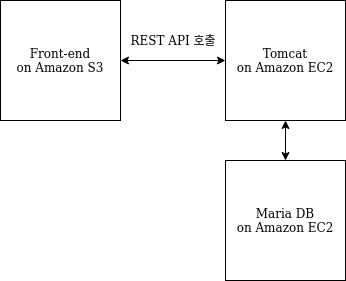
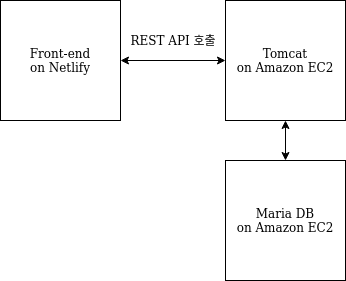
google oauth property, README.md

Changed region(s): [[0.0289, 0.1993, 0.3179, 0.2562]]

diff --git a/README.md b/README.md
@@ -5,13 +5,12 @@ front-end의 자세한 사항을 아래 링크에서 확인할 수 있습니다.
 
 ### Architecture
 ![](docs/pictures/architecture-ver1.png)  
-front-end는 Amazon S3에 배포되어 있습니다. 엔드 유저는 브라우저로 S3 도메인에 접속해서 페이지에 접속합니다.
-로그인 버튼을 누르면 유저 정보를 파라미터로 하여 back-end 서버의 login API를 호출합니다. HTTPS로 연결하여 안전하게 API를 호출할 수 있으며, 유저의 암호는 해쉬해서 안전하게 MariaDB에 저장합니다.
+front-end는 Netlify에 배포되어 있습니다. 유저는 브라우저로 Netlify 도메인으로 페이지에 접속합니다.
+로그인 버튼을 누르면 유저 정보를 파라미터로 하여 back-end 서버의 login API를 호출합니다. HTTPS로 연결하여 안전하게 API를 호출할 수 있으며, 유저의 패스워드를 암호화하여 안전하게 MariaDB에 저장합니다.
 back-end 서버는 amazon ec2 t2.nano로 호스팅합니다. 
 ### 서버 스케일링 전략
-현재 서버 구조는 front-end는 Amazon S3에 위치하고, back-end 서버와 MariaDB는 같은 EC2 instance에 위치하고 있습니다.
-Amazon S3의 bucket은 초당 6000 requests를 수용할 수 있어 먼 미래에도 확장의 필요성이 거의 없습니다.
-다만, 유저가 많아 지는 경우, DB서버와 back-end 서버를 아래와 같이 분리 예정입니다.  
+현재 서버 구조는 front-end는 Netlify에 위치하고, back-end 서버와 MariaDB는 같은 EC2 instance에 위치하고 있습니다.
+다만, 유저가 많아 지는 경우, EC2 instance 등급을 업그레이드 하고, Maria DB와 Tomcat을 아래와 같이 분리 예정입니다.  
 ![](docs/pictures/architecture-ver2.png)  
 유저의 접속이 훨씬 더 많아 지는 경우, replica DB를 두어 읽기 쿼리와, 쓰기, 삭제 쿼리의 부하를 분리할 예정입니다.
 디비 쿼리의 분산은 @Transactional(readonly = true | false) 애노테이션으로 가능합니다. 아직은 구현하지 않았습니다.  
